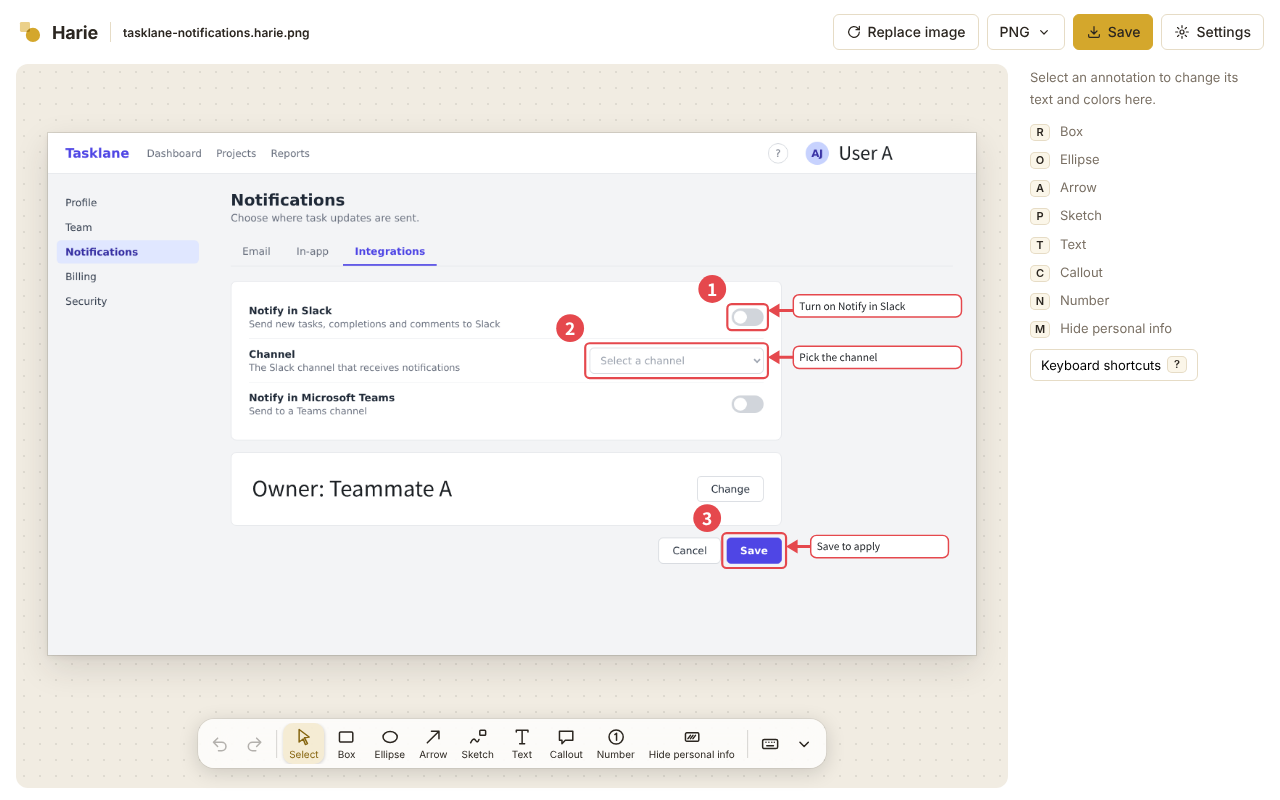
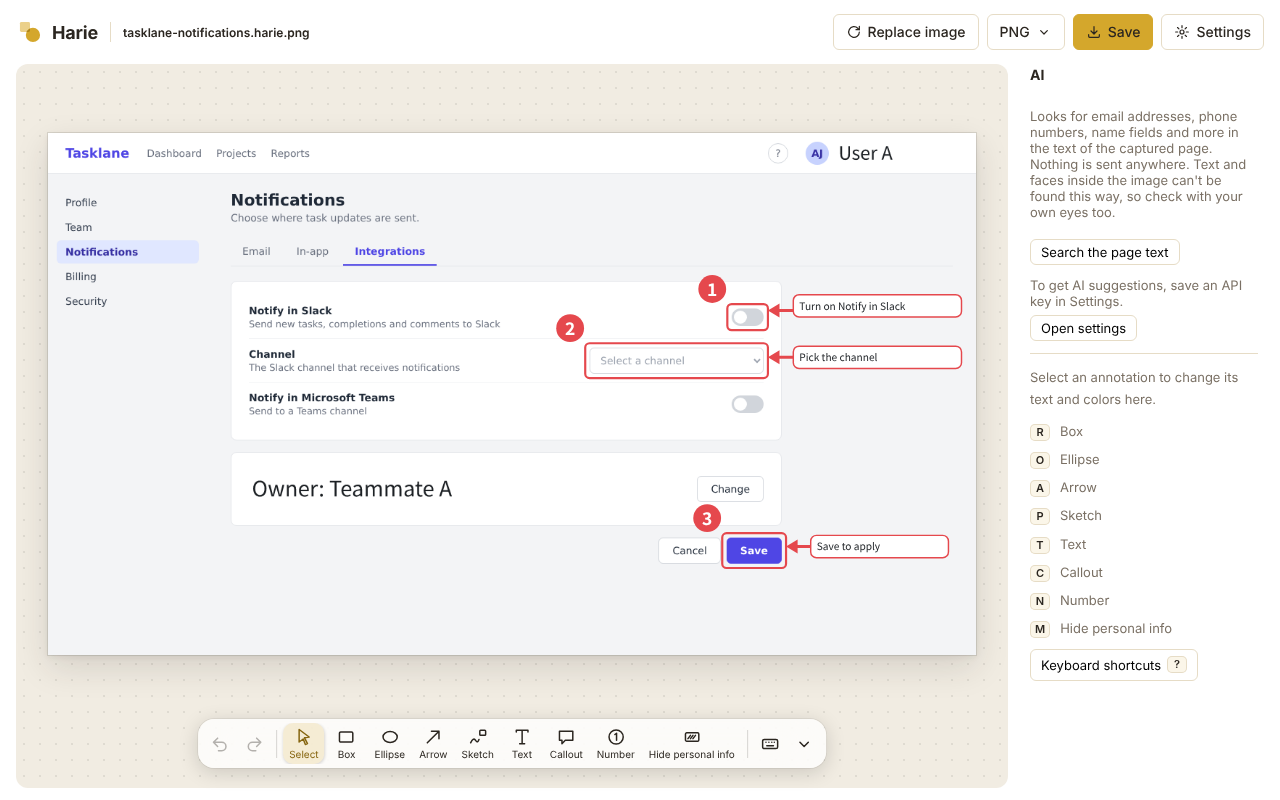
feat(extension): 0.2.0 を出す準備をする
- 拡張の版を 0.2.0 に上げる（0.1.0 以降の要素で囲む道具・AI の欄の見直し・ページの文字からの個人情報探しを含める）
- OpenRouter に接続できない画面（Chrome 拡張・デスクトップ）では、設定と AI の欄で API キーの登録だけを案内する（ADR-0012）
- 掲載用のエディタのスクリーンショットを撮り直す

Claude-Session: https://claude.ai/code/session_01KxBBq4in9W5W2F2iLLuTBq

Changed region(s): [[0.7812, 0.0938, 0.9688, 0.5], [0.8125, 0.5312, 0.9375, 0.8438]]

diff --git a/apps/web/src/messages.ts b/apps/web/src/messages.ts
@@ -76,6 +76,8 @@ const ja = {
     ai: "AI に関する設定",
     aiNote:
       "AI による説明の提案と、画像からの個人情報の検出には、AI のサービスへの接続が必要です。OpenRouter で接続するか、Anthropic の API キーを登録してください。キーはこのブラウザにだけ保存し、ファイルには含めません。",
+    aiNoteKeyOnly:
+      "AI による説明の提案と、画像からの個人情報の検出には、Anthropic の API キーが必要です。キーはここにだけ保存し、ファイルには含めません。",
     keySteps: [
       "下のリンクから Anthropic Console にログインし、「Create Key」でキーを作ります。",
       "作ったキー（sk-ant- で始まる文字列）を貼り付けて登録します。",
@@ -147,6 +149,7 @@ const ja = {
       "ページの文字には個人情報らしきものはありませんでした。画像の中も目で確認してください",
     needKey:
       "AI による説明の提案を使うには、設定で OpenRouter に接続するか、API キーを登録してください。",
+    needKeyOnly: "AI による説明の提案を使うには、設定で API キーを登録してください。",
     openSettings: "設定を開く",
     suggesting: "AI が画像を見ています…",
     detecting: "個人情報を探しています…",
@@ -260,6 +263,8 @@ const en: WebMessages = {
     ai: "AI settings",
     aiNote:
       "AI suggestions and finding personal info in the image need a connection to an AI service. Connect with OpenRouter or save an Anthropic API key. Keys are stored only in this browser and are never included in files.",
+    aiNoteKeyOnly:
+      "AI suggestions and finding personal info in the image need an Anthropic API key. The key is stored only here and is never included in files.",
     keySteps: [
       "Sign in to the Anthropic Console from the link below and create a key with “Create Key”.",
       "Paste the key (it starts with sk-ant-) and save it.",
@@ -325,6 +330,7 @@ const en: WebMessages = {
     noPiiLocal:
       "No personal info found in the page text. Please check the image with your own eyes, too",
     needKey: "To get AI suggestions, connect with OpenRouter or save an API key in Settings.",
+    needKeyOnly: "To get AI suggestions, save an API key in Settings.",
     openSettings: "Open settings",
     suggesting: "AI is looking at the image…",
     detecting: "Looking for personal info…",

diff --git a/apps/web/src/ai/AiPanel.tsx b/apps/web/src/ai/AiPanel.tsx
@@ -14,6 +14,7 @@ import { type Dispatch, useState } from "react";
 import { useWebMessages, type WebMessages } from "../messages";
 import { useSettingsDialog } from "../Settings";
 import { type AiProvider, useAiCredential } from "./api-key";
+import { canConnectOpenRouter } from "./openrouter-auth";
 
 type Base = { bytes: Uint8Array; mediaType: "image/jpeg" | "image/png" };
 
@@ -115,7 +116,10 @@ export function AiPanel({ doc, dispatch, base, onPiiFound, dom }: AiPanelProps) 
       {credential === null ? (
         // API キーはヘッダーの「設定」で登録する。ここからも同じ設定を開ける
         <p className="app-ai-setup">
-          <span className="harie-muted">{m.ai.needKey}</span>
+          {/* Chrome 拡張とデスクトップでは OpenRouter に接続できないので、キーの登録だけを案内する */}
+          <span className="harie-muted">
+            {canConnectOpenRouter() ? m.ai.needKey : m.ai.needKeyOnly}
+          </span>
           <button type="button" onClick={settings.open}>
             {m.ai.openSettings}
           </button>

diff --git a/apps/web/src/Settings.tsx b/apps/web/src/Settings.tsx
@@ -72,7 +72,9 @@ function AiSettings() {
       <h2>{m.settings.ai}</h2>
       {credential === null ? (
         <>
-          <p className="harie-muted">{m.settings.aiNote}</p>
+          <p className="harie-muted">
+            {canConnectOpenRouter() ? m.settings.aiNote : m.settings.aiNoteKeyOnly}
+          </p>
           {canConnectOpenRouter() && <OpenRouterConnect />}
           <AnthropicKeyForm />
         </>
